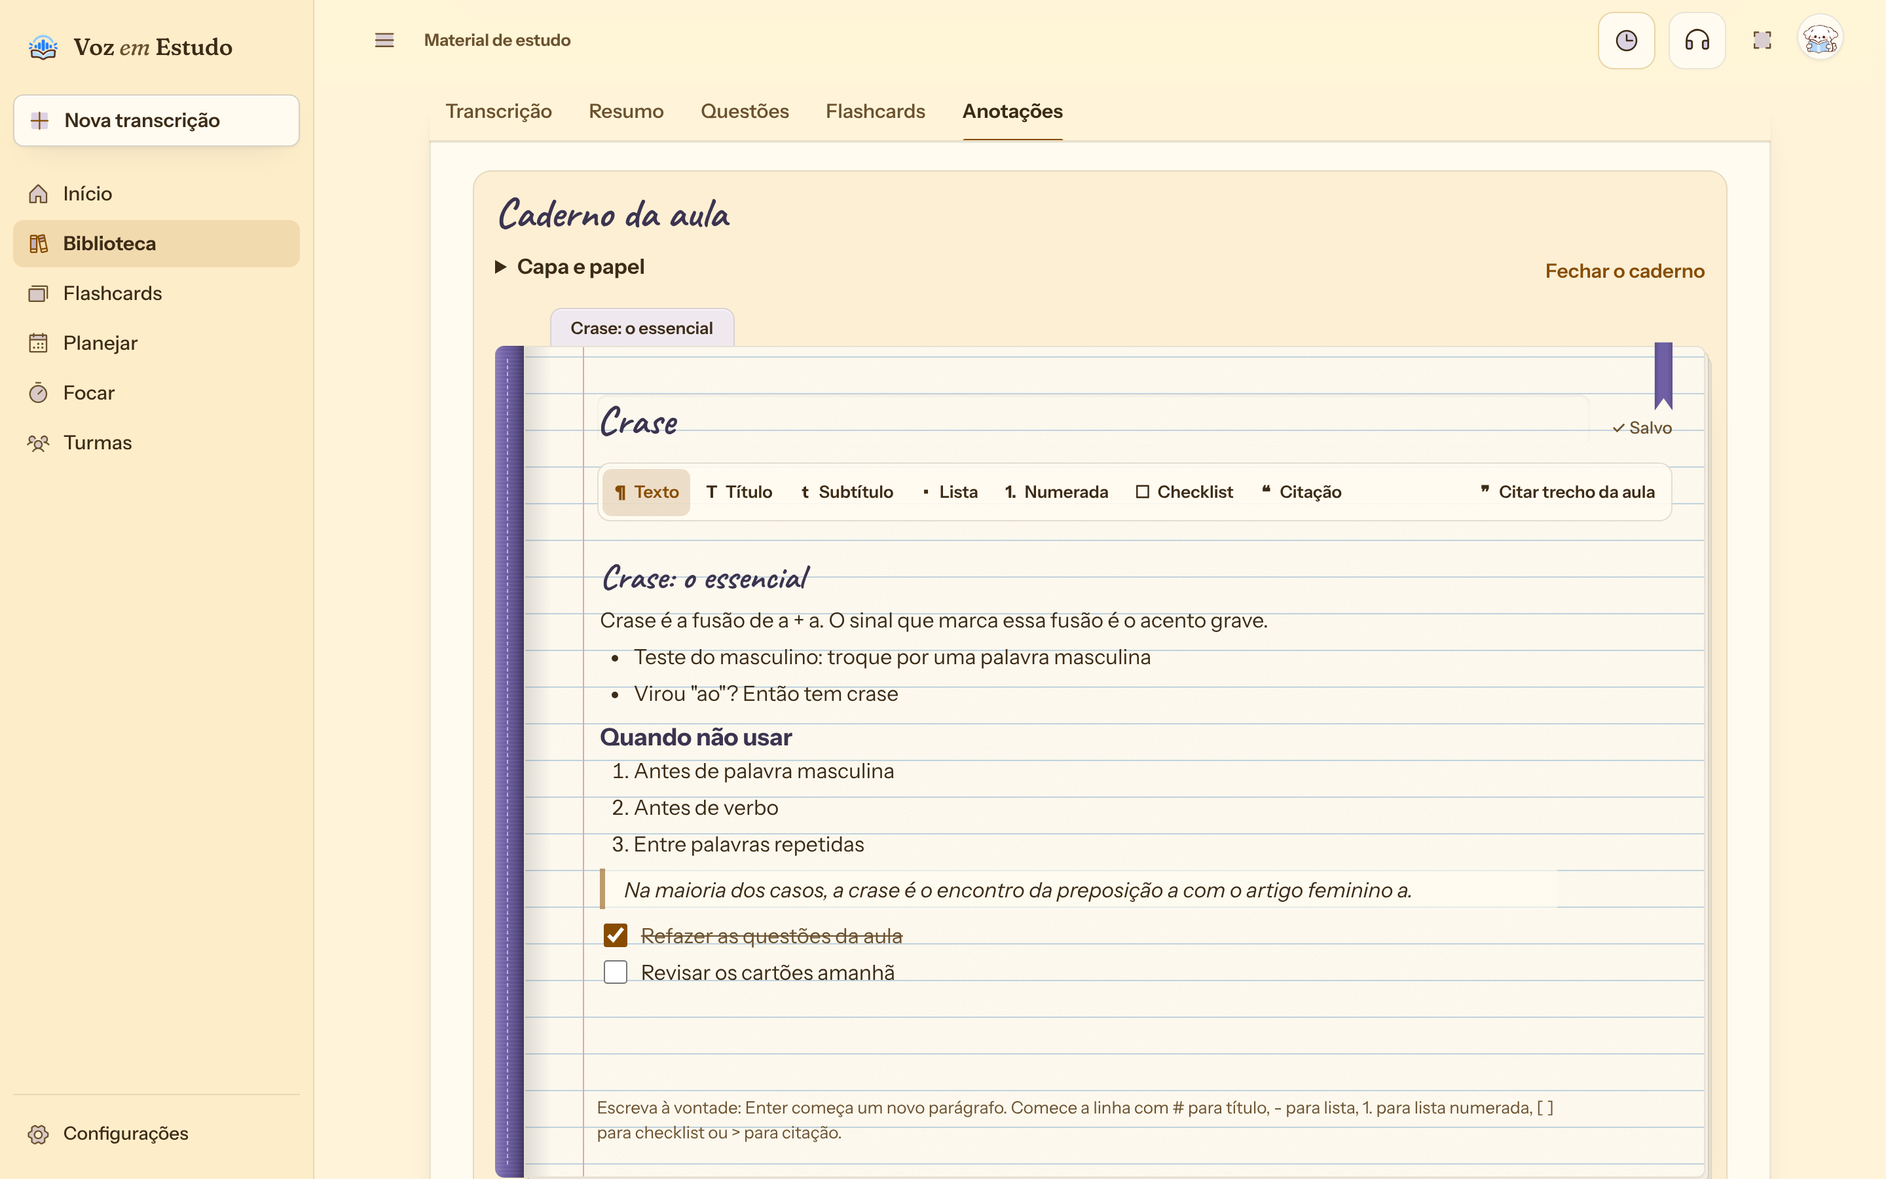
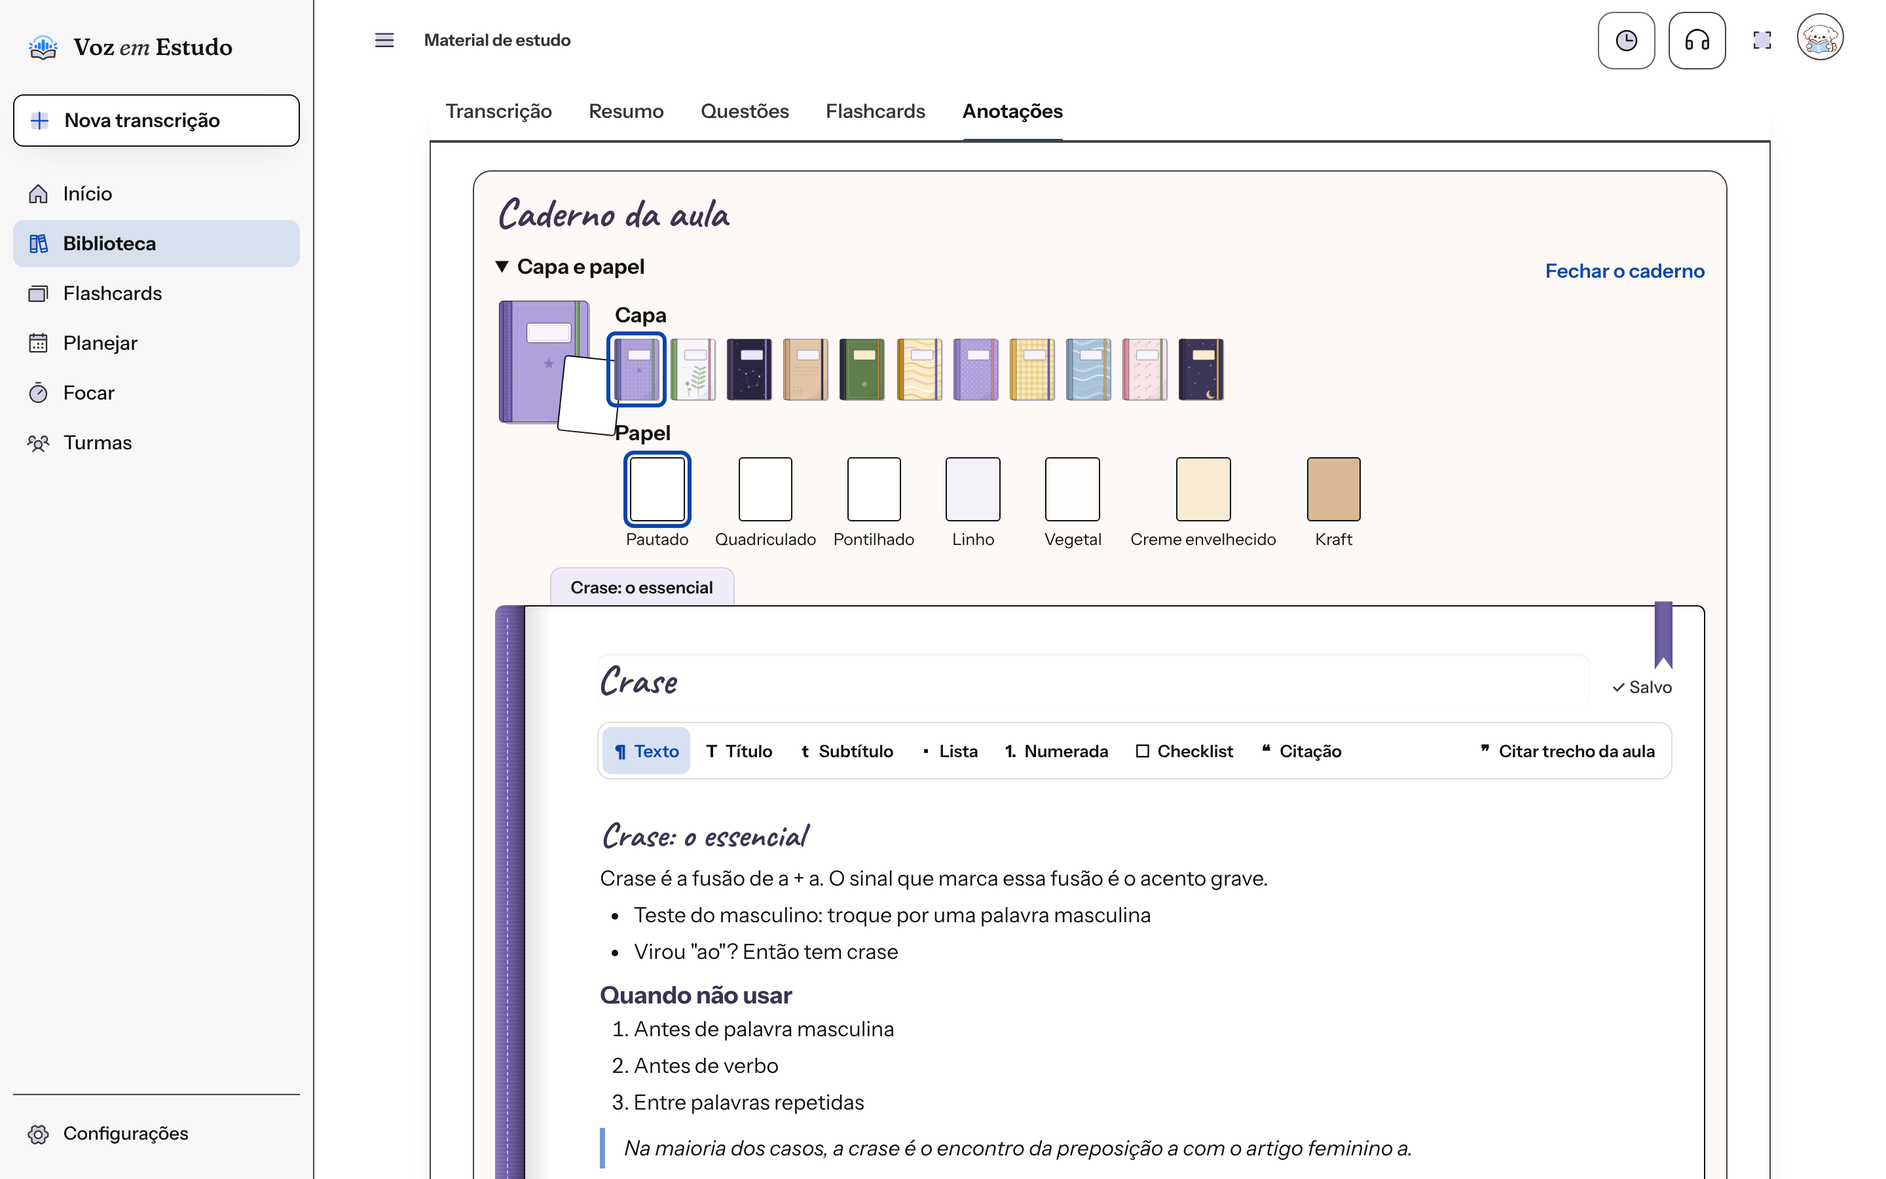
Appendix C: notebook capture on a white theme with the cover and paper options open
Claude-Session: https://claude.ai/code/session_01DUms4gkCS1xwtPzAJMvxhQ

diff --git a/docs/tcc-apendice-c/LEGENDAS.md b/docs/tcc-apendice-c/LEGENDAS.md
@@ -41,54 +41,54 @@
 
 Os arquivos do .zip ficam em pastas por seção e começam pelo número da figura (`C01_…`). Entre parênteses, o nome do mesmo arquivo no repositório (`docs/tcc-apendice-c/`).
 
-| Figura | Arquivo no .zip                                                                           | Tela                                 | Tema                 | Dispositivo |
-| ------ | ----------------------------------------------------------------------------------------- | ------------------------------------ | -------------------- | ----------- |
-| C.1    | 01_acesso_e_primeiro_uso/C01_landing.png (C15_landing.png)                                | Página inicial pública               | Própria da página    | Computador  |
-| C.2    | 01_acesso_e_primeiro_uso/C02_landing_celular.png (C15_landing_celular.png)                | Página inicial pública               | Própria da página    | Celular     |
-| C.3    | 01_acesso_e_primeiro_uso/C03_login.png (C16_login.png)                                    | Entrar                               | Sálvia               | Computador  |
-| C.4    | 01_acesso_e_primeiro_uso/C04_login_celular.png (C16_login_celular.png)                    | Entrar                               | Lavanda              | Celular     |
-| C.5    | 01_acesso_e_primeiro_uso/C05_cadastro.png (C16b_cadastro.png)                             | Criar conta                          | Sálvia               | Computador  |
-| C.6    | 01_acesso_e_primeiro_uso/C06_cadastro_celular.png (C16b_cadastro_celular.png)             | Criar conta                          | Lavanda              | Celular     |
-| C.7    | 01_acesso_e_primeiro_uso/C07_recuperar_senha.png (C28_recuperar_senha.png)                | Recuperar senha                      | Areia                | Computador  |
-| C.8    | 01_acesso_e_primeiro_uso/C08_tutorial.png (C14_tutorial.png)                              | Tutorial guiado                      | Matcha               | Computador  |
-| C.9    | 02_inicio/C09_inicio.png (C00_inicio.png)                                                 | Início (painel)                      | Escrivaninha lavanda | Computador  |
-| C.10   | 02_inicio/C10_inicio_celular.png (C00_inicio_celular.png)                                 | Início                               | Jardim noturno       | Celular     |
-| C.11   | 03_envio_e_processamento/C11_envio_aula.png (C01_envio_aula.png)                          | Nova transcrição: gravação e recorte | Planner              | Computador  |
-| C.12   | 03_envio_e_processamento/C12_envio_identificacao.png (C01b_envio_identificacao.png)       | Nova transcrição: identificação      | Planner              | Computador  |
-| C.13   | 03_envio_e_processamento/C13_processamento.png (C02_processamento.png)                    | Processamento                        | Mesa digital         | Computador  |
-| C.14   | 04_pagina_da_aula/C14_transcricao_player.png (C03_transcricao_player.png)                 | Player e transcrição                 | Jardim noturno       | Computador  |
-| C.15   | 04_pagina_da_aula/C15_transcricao_player_celular.png (C03_transcricao_player_celular.png) | Player e transcrição                 | Matcha               | Celular     |
-| C.16   | 04_pagina_da_aula/C16_revisao_confirmacao.png (C04_revisao_confirmacao.png)               | Revisão da transcrição               | Sálvia               | Computador  |
-| C.17   | 04_pagina_da_aula/C17_revisao_versoes.png (C04b_revisao_versoes.png)                      | Versões da transcrição               | Sálvia               | Computador  |
-| C.18   | 04_pagina_da_aula/C18_resumo.png (C05_resumo.png)                                         | Resumo                               | Areia                | Computador  |
-| C.19   | 04_pagina_da_aula/C19_questoes.png (C06_questoes.png)                                     | Questões                             | Lavanda              | Computador  |
-| C.20   | 04_pagina_da_aula/C20_questoes_celular.png (C06_questoes_celular.png)                     | Questões                             | Jardim noturno       | Celular     |
-| C.21   | 04_pagina_da_aula/C21_anotacoes.png (C21_anotacoes.png)                                   | Anotações: caderno e destaques       | Areia                | Computador  |
-| C.22   | 04_pagina_da_aula/C22_caderno.png (C21b_caderno.png)                                      | Caderno da aula aberto               | Areia                | Computador  |
-| C.23   | 04_pagina_da_aula/C23_anotacoes_celular.png (C21_anotacoes_celular.png)                   | Anotações                            | Sálvia               | Celular     |
-| C.24   | 04_pagina_da_aula/C24_caderno_celular.png (C21b_caderno_celular.png)                      | Caderno da aula aberto               | Sálvia               | Celular     |
-| C.25   | 05_biblioteca_e_revisao/C25_biblioteca.png (C07_biblioteca.png)                           | Biblioteca                           | Oceano               | Computador  |
-| C.26   | 05_biblioteca_e_revisao/C26_biblioteca_pasta.png (C07b_biblioteca_pasta.png)              | Biblioteca: unidade                  | Oceano               | Computador  |
-| C.27   | 05_biblioteca_e_revisao/C27_flashcards.png (C08_flashcards.png)                           | Flashcards: frente                   | Jardim noturno       | Computador  |
-| C.28   | 05_biblioteca_e_revisao/C28_flashcards_verso.png (C08b_flashcards_verso.png)              | Flashcards: verso                    | Jardim noturno       | Computador  |
-| C.29   | 05_biblioteca_e_revisao/C29_flashcards_conjuntos.png (C25_flashcards_conjuntos.png)       | Flashcards: conjuntos                | Matcha               | Computador  |
-| C.30   | 05_biblioteca_e_revisao/C30_listas_questoes.png (C23_listas_questoes.png)                 | Questões: tentativas e novas listas  | Lavanda              | Computador  |
-| C.31   | 06_planejamento_e_foco/C31_planejamento.png (C10_planejamento.png)                        | Planejar: objetivos e tarefas        | Matcha               | Computador  |
-| C.32   | 06_planejamento_e_foco/C32_calendario.png (C24_calendario.png)                            | Planejar: calendário                 | Oceano               | Computador  |
-| C.33   | 06_planejamento_e_foco/C33_tempo_estudo.png (C24b_tempo_estudo.png)                       | Planejar: tempo de estudo            | Oceano               | Computador  |
-| C.34   | 06_planejamento_e_foco/C34_painel_foco.png (C11_painel_foco.png)                          | Painel de foco lateral               | Planner              | Computador  |
-| C.35   | 06_planejamento_e_foco/C35_painel_foco_celular.png (C11_painel_foco_celular.png)          | Painel de foco                       | Oceano               | Celular     |
-| C.36   | 06_planejamento_e_foco/C36_focar.png (C12_focar.png)                                      | Focar                                | Jardim noturno       | Computador  |
-| C.37   | 07_turmas/C37_turmas.png (C27_turmas.png)                                                 | Turmas                               | Planner              | Computador  |
-| C.38   | 07_turmas/C38_turma.png (C27b_turma.png)                                                  | Turma aberta                         | Planner              | Computador  |
-| C.39   | 08_conta_e_personalizacao/C39_perfil.png (C17_perfil.png)                                 | Meu perfil                           | Lavanda              | Computador  |
-| C.40   | 08_conta_e_personalizacao/C40_perfil_celular.png (C17_perfil_celular.png)                 | Meu perfil                           | Areia                | Celular     |
-| C.41   | 08_conta_e_personalizacao/C41_configuracoes.png (C18_configuracoes.png)                   | Configurações                        | Oceano               | Computador  |
-| C.42   | 08_conta_e_personalizacao/C42_aparencia.png (C19_aparencia.png)                           | Aparência                            | Areia                | Computador  |
-| C.43   | 08_conta_e_personalizacao/C43_acessibilidade.png (C09_acessibilidade.png)                 | Leitura e foco (acessibilidade)      | Alto contraste claro | Computador  |
-| C.44   | 08_conta_e_personalizacao/C44_ajuda.png (C20_ajuda.png)                                   | Ajuda                                | Mesa digital         | Computador  |
-| C.45   | 09_programa_de_testes/C45_aulas_demonstracao.png (C13_aulas_demonstracao.png)             | Aulas de demonstração                | Escrivaninha lavanda | Computador  |
-| C.46   | 09_programa_de_testes/C46_conta_participante.png (C13b_conta_participante.png)            | Conta de participante                | Escrivaninha lavanda | Computador  |
+| Figura | Arquivo no .zip                                                                           | Tela                                 | Tema                                | Dispositivo |
+| ------ | ----------------------------------------------------------------------------------------- | ------------------------------------ | ----------------------------------- | ----------- |
+| C.1    | 01_acesso_e_primeiro_uso/C01_landing.png (C15_landing.png)                                | Página inicial pública               | Própria da página                   | Computador  |
+| C.2    | 01_acesso_e_primeiro_uso/C02_landing_celular.png (C15_landing_celular.png)                | Página inicial pública               | Própria da página                   | Celular     |
+| C.3    | 01_acesso_e_primeiro_uso/C03_login.png (C16_login.png)                                    | Entrar                               | Sálvia                              | Computador  |
+| C.4    | 01_acesso_e_primeiro_uso/C04_login_celular.png (C16_login_celular.png)                    | Entrar                               | Lavanda                             | Celular     |
+| C.5    | 01_acesso_e_primeiro_uso/C05_cadastro.png (C16b_cadastro.png)                             | Criar conta                          | Sálvia                              | Computador  |
+| C.6    | 01_acesso_e_primeiro_uso/C06_cadastro_celular.png (C16b_cadastro_celular.png)             | Criar conta                          | Lavanda                             | Celular     |
+| C.7    | 01_acesso_e_primeiro_uso/C07_recuperar_senha.png (C28_recuperar_senha.png)                | Recuperar senha                      | Areia                               | Computador  |
+| C.8    | 01_acesso_e_primeiro_uso/C08_tutorial.png (C14_tutorial.png)                              | Tutorial guiado                      | Matcha                              | Computador  |
+| C.9    | 02_inicio/C09_inicio.png (C00_inicio.png)                                                 | Início (painel)                      | Escrivaninha lavanda                | Computador  |
+| C.10   | 02_inicio/C10_inicio_celular.png (C00_inicio_celular.png)                                 | Início                               | Jardim noturno                      | Celular     |
+| C.11   | 03_envio_e_processamento/C11_envio_aula.png (C01_envio_aula.png)                          | Nova transcrição: gravação e recorte | Planner                             | Computador  |
+| C.12   | 03_envio_e_processamento/C12_envio_identificacao.png (C01b_envio_identificacao.png)       | Nova transcrição: identificação      | Planner                             | Computador  |
+| C.13   | 03_envio_e_processamento/C13_processamento.png (C02_processamento.png)                    | Processamento                        | Mesa digital                        | Computador  |
+| C.14   | 04_pagina_da_aula/C14_transcricao_player.png (C03_transcricao_player.png)                 | Player e transcrição                 | Jardim noturno                      | Computador  |
+| C.15   | 04_pagina_da_aula/C15_transcricao_player_celular.png (C03_transcricao_player_celular.png) | Player e transcrição                 | Matcha                              | Celular     |
+| C.16   | 04_pagina_da_aula/C16_revisao_confirmacao.png (C04_revisao_confirmacao.png)               | Revisão da transcrição               | Sálvia                              | Computador  |
+| C.17   | 04_pagina_da_aula/C17_revisao_versoes.png (C04b_revisao_versoes.png)                      | Versões da transcrição               | Sálvia                              | Computador  |
+| C.18   | 04_pagina_da_aula/C18_resumo.png (C05_resumo.png)                                         | Resumo                               | Areia                               | Computador  |
+| C.19   | 04_pagina_da_aula/C19_questoes.png (C06_questoes.png)                                     | Questões                             | Lavanda                             | Computador  |
+| C.20   | 04_pagina_da_aula/C20_questoes_celular.png (C06_questoes_celular.png)                     | Questões                             | Jardim noturno                      | Celular     |
+| C.21   | 04_pagina_da_aula/C21_anotacoes.png (C21_anotacoes.png)                                   | Anotações: caderno e destaques       | Alto contraste claro (fundo branco) | Computador  |
+| C.22   | 04_pagina_da_aula/C22_caderno.png (C21b_caderno.png)                                      | Caderno da aula aberto               | Alto contraste claro (fundo branco) | Computador  |
+| C.23   | 04_pagina_da_aula/C23_anotacoes_celular.png (C21_anotacoes_celular.png)                   | Anotações                            | Sálvia                              | Celular     |
+| C.24   | 04_pagina_da_aula/C24_caderno_celular.png (C21b_caderno_celular.png)                      | Caderno da aula aberto               | Sálvia                              | Celular     |
+| C.25   | 05_biblioteca_e_revisao/C25_biblioteca.png (C07_biblioteca.png)                           | Biblioteca                           | Oceano                              | Computador  |
+| C.26   | 05_biblioteca_e_revisao/C26_biblioteca_pasta.png (C07b_biblioteca_pasta.png)              | Biblioteca: unidade                  | Oceano                              | Computador  |
+| C.27   | 05_biblioteca_e_revisao/C27_flashcards.png (C08_flashcards.png)                           | Flashcards: frente                   | Jardim noturno                      | Computador  |
+| C.28   | 05_biblioteca_e_revisao/C28_flashcards_verso.png (C08b_flashcards_verso.png)              | Flashcards: verso                    | Jardim noturno                      | Computador  |
+| C.29   | 05_biblioteca_e_revisao/C29_flashcards_conjuntos.png (C25_flashcards_conjuntos.png)       | Flashcards: conjuntos                | Matcha                              | Computador  |
+| C.30   | 05_biblioteca_e_revisao/C30_listas_questoes.png (C23_listas_questoes.png)                 | Questões: tentativas e novas listas  | Lavanda                             | Computador  |
+| C.31   | 06_planejamento_e_foco/C31_planejamento.png (C10_planejamento.png)                        | Planejar: objetivos e tarefas        | Matcha                              | Computador  |
+| C.32   | 06_planejamento_e_foco/C32_calendario.png (C24_calendario.png)                            | Planejar: calendário                 | Oceano                              | Computador  |
+| C.33   | 06_planejamento_e_foco/C33_tempo_estudo.png (C24b_tempo_estudo.png)                       | Planejar: tempo de estudo            | Oceano                              | Computador  |
+| C.34   | 06_planejamento_e_foco/C34_painel_foco.png (C11_painel_foco.png)                          | Painel de foco lateral               | Planner                             | Computador  |
+| C.35   | 06_planejamento_e_foco/C35_painel_foco_celular.png (C11_painel_foco_celular.png)          | Painel de foco                       | Oceano                              | Celular     |
+| C.36   | 06_planejamento_e_foco/C36_focar.png (C12_focar.png)                                      | Focar                                | Jardim noturno                      | Computador  |
+| C.37   | 07_turmas/C37_turmas.png (C27_turmas.png)                                                 | Turmas                               | Planner                             | Computador  |
+| C.38   | 07_turmas/C38_turma.png (C27b_turma.png)                                                  | Turma aberta                         | Planner                             | Computador  |
+| C.39   | 08_conta_e_personalizacao/C39_perfil.png (C17_perfil.png)                                 | Meu perfil                           | Lavanda                             | Computador  |
+| C.40   | 08_conta_e_personalizacao/C40_perfil_celular.png (C17_perfil_celular.png)                 | Meu perfil                           | Areia                               | Celular     |
+| C.41   | 08_conta_e_personalizacao/C41_configuracoes.png (C18_configuracoes.png)                   | Configurações                        | Oceano                              | Computador  |
+| C.42   | 08_conta_e_personalizacao/C42_aparencia.png (C19_aparencia.png)                           | Aparência                            | Areia                               | Computador  |
+| C.43   | 08_conta_e_personalizacao/C43_acessibilidade.png (C09_acessibilidade.png)                 | Leitura e foco (acessibilidade)      | Alto contraste claro                | Computador  |
+| C.44   | 08_conta_e_personalizacao/C44_ajuda.png (C20_ajuda.png)                                   | Ajuda                                | Mesa digital                        | Computador  |
+| C.45   | 09_programa_de_testes/C45_aulas_demonstracao.png (C13_aulas_demonstracao.png)             | Aulas de demonstração                | Escrivaninha lavanda                | Computador  |
+| C.46   | 09_programa_de_testes/C46_conta_participante.png (C13b_conta_participante.png)            | Conta de participante                | Escrivaninha lavanda                | Computador  |
 
 Se preferir menos figuras no corpo do texto, um conjunto mínimo é C.1, C.9, C.11, C.14, C.16, C.19, C.22, C.27, C.34, C.43 e C.15; o resto pode ficar só no apêndice.
 
@@ -266,16 +266,16 @@ Questões em um celular (página inteira), com alternativas em cartões grandes 
 
 Aba Anotações (página inteira): o caderno da aula fechado e a lista "Destaques da aula", com trechos marcados na transcrição, comentários e as ações citar no caderno, ir ao destaque, ouvir o trecho e editar.
 
-- Tema: Areia. Dispositivo: computador.
+- Tema: Alto contraste claro (fundo branco). Dispositivo: computador.
 - Legenda sugerida: **Figura C.21 – Destaques da transcrição com comentários e o caderno da aula. Fonte: elaborado pela autora (2026).**
 - Onde usar: resultados (anotação e estudo ativo).
 
 #### Figura C.22 – C22_caderno.png
 
-Caderno simulado aberto: título, barra de formatação (texto, título, subtítulo, listas, checklist, citação, citar trecho da aula) e uma página com anotações, lista numerada, citação da aula e checklist. O texto é salvo sozinho ("Salvo").
+Caderno simulado aberto, com as opções "Capa e papel" à mostra (11 capas e 7 papéis: pautado, quadriculado, pontilhado, linho, vegetal, creme envelhecido e kraft). Abaixo, o título, a barra de formatação (texto, título, subtítulo, listas, checklist, citação, citar trecho da aula) e uma página com anotações, lista numerada, citação da aula e checklist. O texto é salvo sozinho ("Salvo").
 
-- Tema: Areia. Dispositivo: computador.
-- Legenda sugerida: **Figura C.22 – Caderno digital da aula, com formatação, citação da aula e checklist. Fonte: elaborado pela autora (2026).**
+- Tema: Alto contraste claro (fundo branco). Dispositivo: computador.
+- Legenda sugerida: **Figura C.22 – Caderno digital da aula, com escolha de capa e papel, formatação, citação da aula e checklist. Fonte: elaborado pela autora (2026).**
 - Onde usar: resultados (anotação e organização pessoal).
 
 #### Figura C.23 – C23_anotacoes_celular.png
